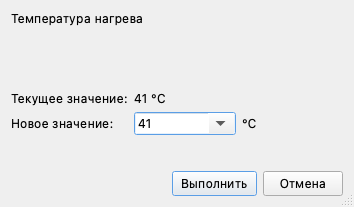
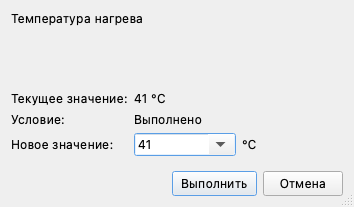
screenshots: the control dialog's condition row was two bugs, not one
`ti-remote-control-enabled.png` was missing the "Условие: Выполнено" row
its scada-docs original shows. The backlog read that as a fixture gap —
TIT.212 carries no `DataItemType_OutputCondition` — and it is, but adding
the property changed nothing: the capture came out byte-identical.

The second half is that a property declared on a *supertype* cannot be
read at all unless the whole type chain is resident.
`NodeModelImpl::GetAggregateDeclaration` walks
`type_definition.targets(Aggregates)` up that chain, and an unfetched
type reports no aggregates — not an error, an empty list — so the walk
runs off the end and returns null. `FetchNodesResident` fetched only the
direct type, so `OutputCondition` (declared on `DataItemType`) read back
empty while the `AnalogItemType` limit bands one line above it read
correctly. It now fetches the chain a level per round, since
`supertype()` reads the id off the type's own state and each level has
to be fetched before the next can be named.

This is the same defect the Roles captures hit, so it is now written up
once in docs/ops/client-screenshots.md rather than a third time in a
commit message. Two things about it are worth keeping: a unit test
cannot see it (a StaticNodeService resolves the declaration whether or
not anything fetched the type), and neither can the PNG comparison — a
missing property row just makes the dialog shorter, well inside its
pinned 354x207. Hence
[…]

diff --git a/tools/screenshot_generator/main.cpp b/tools/screenshot_generator/main.cpp
@@ -57,6 +57,7 @@
 #include "model/security_node_ids.h"
 #include "modules/limits/limit_model.h"
 #include "modules/transmission/transmission_devices.h"
+#include "modules/write/write_model.h"
 #include "node_service/node_awaitable.h"
 #include "node_service/node_ref.h"
 #include "node_service/node_service.h"
@@ -1848,6 +1849,42 @@ TEST_F(ScreenshotGenerator, LimitDialogNodeCarriesItsBands) {
   EXPECT_EQ(limits.hi, u"70");
   EXPECT_EQ(limits.lo, u"-10");
   EXPECT_EQ(limits.lolo, u"-25");
+}
+
+// The control dialog's condition row exists only when the target node carries
+// a DataItemType_OutputCondition formula, and it reads "Satisfied" only when
+// that formula evaluates truthy over live data. Both are fixture properties
+// and both are invisible to the PNG comparison — the row's absence just makes
+// the dialog shorter — so assert them here: without this the fixture could
+// silently lose the property and ti-remote-control-enabled.png would go back
+// to missing the row the docs original shows.
+TEST_F(ScreenshotGenerator, ControlDialogNodeCarriesItsOutputCondition) {
+  WaitForAwaitable(executor_, app_.Start());
+  ASSERT_TRUE(WaitForPendingNodeLoads(app_.node_service()));
+
+  const scada::NodeId node_id = g_config.dialog_analog_node_id;
+  ASSERT_TRUE(scada::screenshot_generator::FetchNodesResident(
+      app_.node_service(), std::span<const scada::NodeId>{&node_id, 1}));
+
+  Profile profile;
+  auto model = std::make_shared<WriteModel>(
+      WriteContext{.executor_ = executor_,
+                   .timed_data_service_ = app_.timed_data_service(),
+                   .node_id_ = node_id,
+                   .profile_ = profile,
+                   .manual_ = false});
+
+  EXPECT_TRUE(model->has_condition())
+      << "the fixture node lost its DataItemType_OutputCondition; the control "
+         "dialog would render without its condition row";
+
+  // The condition subscribes through TimedDataService like any other item, so
+  // its first value arrives on a later turn of the loop.
+  scada::screenshot_generator::PumpEventLoopFor(std::chrono::milliseconds{500});
+
+  EXPECT_TRUE(model->IsConditionOk())
+      << "the condition formula must evaluate truthy over the fixture data, so "
+         "the dialog reads Satisfied and its OK button is enabled";
 }
 
 TEST_F(ScreenshotGenerator, CaptureDialogs) {

diff --git a/tools/screenshot_generator/screenshot_wait.cpp b/tools/screenshot_generator/screenshot_wait.cpp
@@ -14,6 +14,8 @@
 
 #include <QElapsedTimer>
 
+#include <vector>
+
 namespace scada::screenshot_generator {
 
 namespace {
@@ -84,6 +86,7 @@ bool FetchNodesResident(NodeService& node_service,
   // Wave 2: the type definition (its aggregate declarations are what let
   // `node[declaration_id]` resolve to a property child) and each property
   // child's own value.
+  std::vector<NodeRef> types;
   for (const scada::NodeId& id : node_ids) {
     if (id.is_null())
       continue;
@@ -91,9 +94,34 @@ bool FetchNodesResident(NodeService& node_service,
     if (!node)
       continue;
     if (NodeRef type = node.type_definition())
-      type.StartFetch(NodeFetchStatus::NodeAndChildren);
+      types.push_back(std::move(type));
     for (const NodeRef& child : node.targets(scada::id::HierarchicalReferences))
       child.StartFetch(NodeFetchStatus::NodeOnly);
+  }
+
+  // Wave 3: the rest of the type's supertype chain, one level per round.
+  // NodeModelImpl::GetAggregateDeclaration walks that chain looking for the
+  // declaration, and an unfetched type reports no aggregates at all — so a
+  // property declared on a base type resolves to nothing while its siblings
+  // on the leaf type resolve fine. That is how TIT.212's
+  // DataItemType_OutputCondition read back empty, leaving the control dialog
+  // without its condition row, while the AnalogItemType limit bands beside it
+  // read correctly. A round per level because `supertype()` reads the id off
+  // the type's own state: each level must be fetched before the next can be
+  // named.
+  constexpr int kMaxTypeDepth = 16;
+  for (int depth = 0; depth < kMaxTypeDepth && !types.empty(); ++depth) {
+    for (const NodeRef& type : types)
+      type.StartFetch(NodeFetchStatus::NodeAndChildren);
+    if (!WaitForPendingNodeLoads(node_service))
+      return false;
+
+    std::vector<NodeRef> supertypes;
+    for (const NodeRef& type : types) {
+      if (NodeRef supertype = type.supertype())
+        supertypes.push_back(std::move(supertype));
+    }
+    types = std::move(supertypes);
   }
   return WaitForPendingNodeLoads(node_service);
 }
